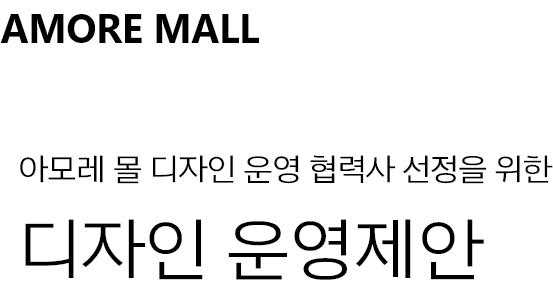
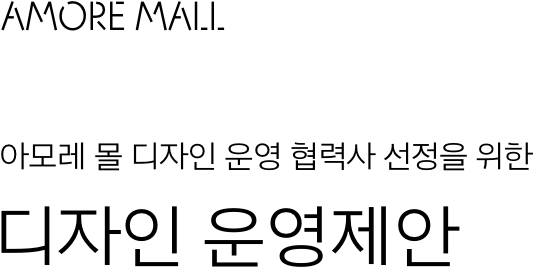
Gate text & link update

Changed region(s): [[0.0, 0.7619, 0.8989, 0.9963], [0.0, 0.4982, 1.0, 0.6447], [0.0, 0.0, 0.4794, 0.1758]]

diff --git a/index.html b/index.html
@@ -43,12 +43,12 @@
                 max-width: 366px;
             }
             .matching_txt {
-                width: calc(100vw * 364 / 750);
-                max-width: 364px;
+                width: calc(100vw * 359 / 750);
+                max-width: 359px;
             }
             .charm_txt {
-                width: calc(100vw * 549 / 750);
-                max-width: 549px;
+                width: calc(100vw * 391 / 750);
+                max-width: 391px;
             }
             ul {
                 list-style: none;
@@ -108,7 +108,7 @@
                     />
                     <ul>
                         <li>
-                            <a href="./type_b/type_b.html" target="_blank">
+                            <a href="./type_b/01_atype.html" target="_blank">
                                 <img
                                     class="special_img"
                                     src="./img/special_a.png"
@@ -117,7 +117,7 @@
                             </a>
                         </li>
                         <li>
-                            <a href="./type_a/type_a.html" target="_blank">
+                            <a href="./type_a/01_btype.html" target="_blank">
                                 <img
                                     class="special_img"
                                     src="./img/special_b.png"
@@ -126,7 +126,7 @@
                             </a>
                         </li>
                         <li>
-                            <a href="./type_c/type_c_2.html" target="_blank">
+                            <a href="./type_c/01_ctype.html" target="_blank">
                                 <img
                                     class="special_img"
                                     src="./img/special_c.png"
@@ -135,7 +135,7 @@
                             </a>
                         </li>
                         <li>
-                            <a href="./type_d/type_d.html" target="_blank">
+                            <a href="./type_d/01_dtype.html" target="_blank">
                                 <img
                                     class="special_img"
                                     src="./img/special_d.png"
@@ -153,7 +153,7 @@
                     />
                     <ul>
                         <li>
-                            <a href="./type_h/type_h.html" target="_blank">
+                            <a href="./type_h/02_atype.html" target="_blank">
                                 <img
                                     class="matching_img"
                                     src="./img/matching_a.png"
@@ -162,7 +162,7 @@
                             </a>
                         </li>
                         <li>
-                            <a href="./type_g/type_g.html" target="_blank">
+                            <a href="./type_g/02_btype.html" target="_blank">
                                 <img
                                     class="matching_img"
                                     src="./img/matching_b.png"
@@ -180,7 +180,7 @@
                     />
                     <ul>
                         <li>
-                            <a href="./type_f/type_f.html" target="_blank">
+                            <a href="./type_f/03_atype.html" target="_blank">
                                 <img
                                     class="charm_img"
                                     src="./img/charm_a.png"
@@ -189,7 +189,7 @@
                             </a>
                         </li>
                         <li>
-                            <a href="./type_e/type_e.html" target="_blank">
+                            <a href="./type_e/03_btype.html" target="_blank">
                                 <img
                                     class="charm_img"
                                     src="./img/charm_b.png"
@@ -198,7 +198,7 @@
                             </a>
                         </li>
                         <li>
-                            <a href="./type_c/type_c_1.html" target="_blank">
+                            <a href="./type_c/03_ctype.html" target="_blank">
                                 <img
                                     class="charm_img"
                                     src="./img/charm_c.png"
